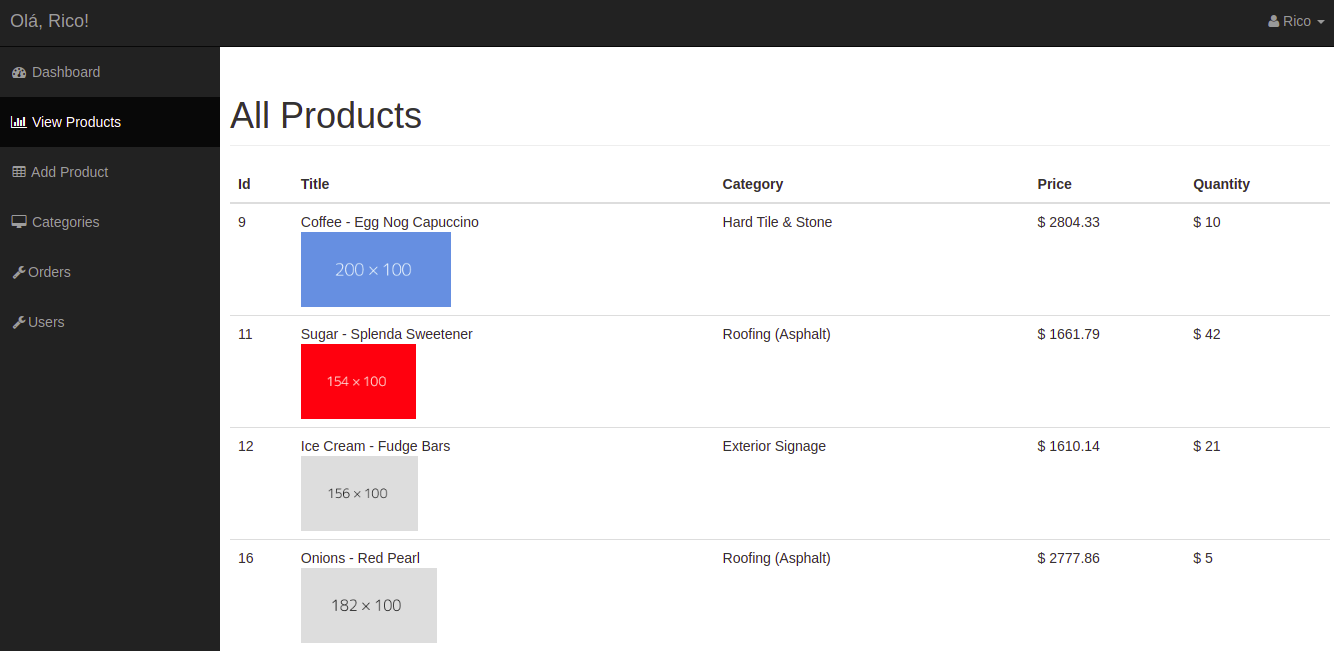
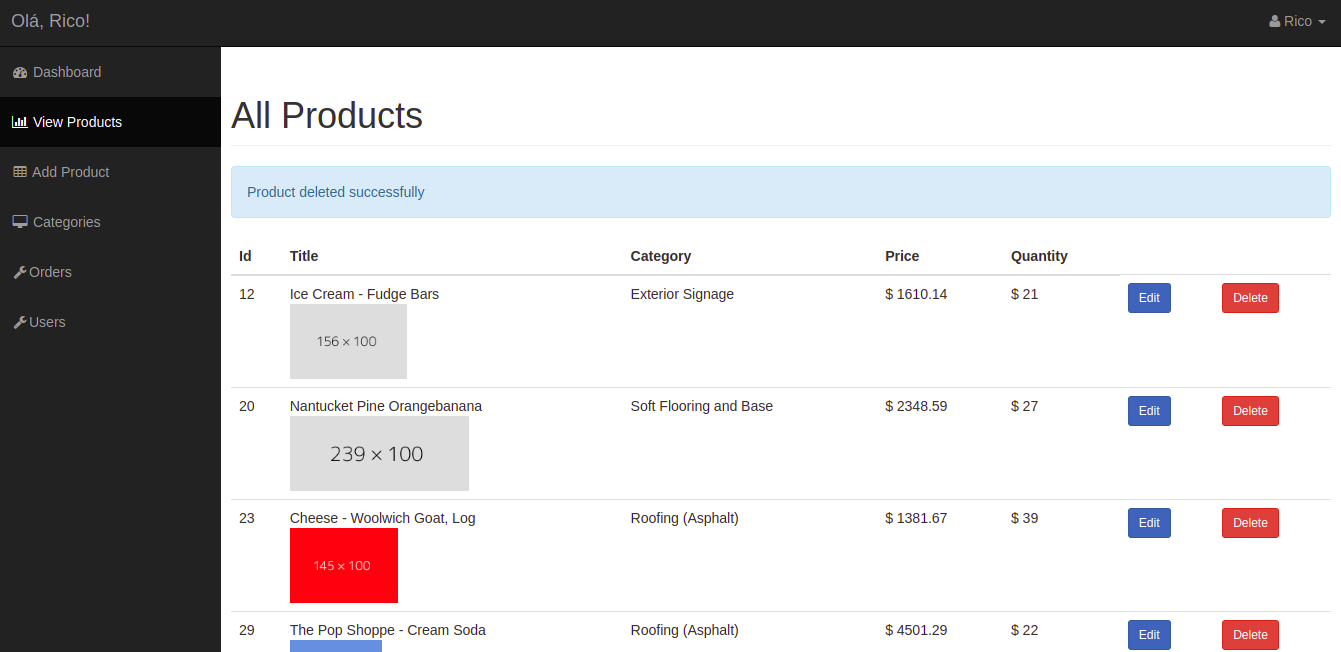
Adding edit product link to admin

diff --git a/admin/edit_product.php b/admin/edit_product.php
@@ -1,239 +1,98 @@
-<!DOCTYPE html>
-<html lang="en">
+<div id="page-wrapper">
 
-<head>
+  <div class="container-fluid">
 
-    <meta charset="utf-8">
-    <meta http-equiv="X-UA-Compatible" content="IE=edge">
-    <meta name="viewport" content="width=device-width, initial-scale=1">
-    <meta name="description" content="">
-    <meta name="author" content="">
+    <div class="col-md-12">
 
-    <title>SB Admin - Bootstrap Admin Template</title>
-
-    <!-- Bootstrap Core CSS -->
-    <link href="css/bootstrap.min.css" rel="stylesheet">
-
-    <!-- Custom CSS -->
-    <link href="css/sb-admin.css" rel="stylesheet">
-
-    <!-- Morris Charts CSS -->
-    <link href="css/plugins/morris.css" rel="stylesheet">
-
-    <!-- Custom Fonts -->
-    <link href="font-awesome/css/font-awesome.min.css" rel="stylesheet" type="text/css">
-
-    <!-- HTML5 Shim and Respond.js IE8 support of HTML5 elements and media queries -->
-    <!-- WARNING: Respond.js doesn't work if you view the page via file:// -->
-    <!--[if lt IE 9]>
-        <script src="https://oss.maxcdn.com/libs/html5shiv/3.7.0/html5shiv.js"></script>
-        <script src="https://oss.maxcdn.com/libs/respond.js/1.4.2/respond.min.js"></script>
-    <![endif]-->
-
-</head>
-
-<body>
-
-    <div id="wrapper">
-
-        <!-- Navigation -->
-        <nav class="navbar navbar-inverse navbar-fixed-top" role="navigation">
-            <!-- Brand and toggle get grouped for better mobile display -->
-            <div class="navbar-header">
-                <button type="button" class="navbar-toggle" data-toggle="collapse" data-target=".navbar-ex1-collapse">
-                    <span class="sr-only">Toggle navigation</span>
-                    <span class="icon-bar"></span>
-                    <span class="icon-bar"></span>
-                    <span class="icon-bar"></span>
-                </button>
-                <a class="navbar-brand" href="index.html">SB Admin</a>
-            </div>
-            <!-- Top Menu Items -->
-            <ul class="nav navbar-right top-nav">
-              <li class="dropdown">
-                    <a href="#" class="dropdown-toggle" data-toggle="dropdown"><i class="fa fa-user"></i> John Smith <b class="caret"></b></a>
-                    <ul class="dropdown-menu">
-                       
-                        <li class="divider"></li>
-                        <li>
-                            <a href="#"><i class="fa fa-fw fa-power-off"></i> Log Out</a>
-                        </li>
-                    </ul>
-                </li>
-            </ul>
-            <!-- Sidebar Menu Items - These collapse to the responsive navigation menu on small screens -->
-            <div class="collapse navbar-collapse navbar-ex1-collapse">
-                <ul class="nav navbar-nav side-nav">
-                    <li class="active">
-                        <a href="index.html"><i class="fa fa-fw fa-dashboard"></i> Dashboard</a>
-                    </li>
-                    <li>
-                        <a href="charts.html"><i class="fa fa-fw fa-bar-chart-o"></i> View Products</a>
-                    </li>
-                    <li>
-                        <a href="tables.html"><i class="fa fa-fw fa-table"></i> Add Product</a>
-                    </li>
-                    
-                    <li>
-                        <a href="bootstrap-elements.html"><i class="fa fa-fw fa-desktop"></i> Categories</a>
-                    </li>
-                    <li>
-                        <a href="bootstrap-grid.html"><i class="fa fa-fw fa-wrench"></i>Orders</a>
-                    </li>
-                
-                </ul>
-            </div>
-            <!-- /.navbar-collapse -->
-        </nav>
-
-
-
-        <div id="page-wrapper">
-
-            <div class="container-fluid">
-
-
-
-
-
-
-<div class="col-md-12">
-
-<div class="row">
-<h1 class="page-header">
-   Add Product
-
-</h1>
-</div>
-               
-
-
-<form action="" method="post" enctype="multipart/form-data">
-
-
-<div class="col-md-8">
-
-<div class="form-group">
-    <label for="product-title">Product Title </label>
-        <input type="text" name="product_title" class="form-control">
-       
-    </div>
-
-
-    <div class="form-group">
-           <label for="product-title">Product Description</label>
-      <textarea name="product_description" id="" cols="30" rows="10" class="form-control"></textarea>
-    </div>
-
-
-
-    <div class="form-group row">
-
-      <div class="col-xs-3">
-        <label for="product-price">Product Price</label>
-        <input type="number" name="product_price" class="form-control" size="60">
+      <div class="row">
+        <h1 class="page-header">Add Product</h1>
       </div>
-    </div>
+
+      <form action="" method="post" enctype="multipart/form-data">
+
+        <div class="col-md-8">
+
+          <div class="form-group">
+            <label for="product-title">Product Title </label>
+            <input type="text" name="product_title" class="form-control">
+          </div>
+
+
+          <div class="form-group">
+            <label for="product-title">Product Description</label>
+            <textarea name="product_description" id="" cols="30" rows="10" class="form-control"></textarea>
+          </div>
 
 
 
-
-    
-    
-
-</div><!--Main Content-->
-
-
-<!-- SIDEBAR-->
-
-
-<aside id="admin_sidebar" class="col-md-4">
-
-     
-     <div class="form-group">
-       <input type="submit" name="draft" class="btn btn-warning btn-lg" value="Draft">
-        <input type="submit" name="publish" class="btn btn-primary btn-lg" value="Publish">
-    </div>
-
-
-     <!-- Product Categories-->
-
-    <div class="form-group">
-         <label for="product-title">Product Category</label>
-          <hr>
-        <select name="product_category" id="" class="form-control">
-            <option value="">Select Category</option>
-           
-        </select>
-
-
-</div>
-
-
-
-
-
-    <!-- Product Brands-->
-
-
-    <div class="form-group">
-      <label for="product-title">Product Brand</label>
-         <select name="product_brand" id="" class="form-control">
-            <option value="">Select Brand</option>
-         </select>
-    </div>
-
-
-<!-- Product Tags -->
-
-
-    <div class="form-group">
-          <label for="product-title">Product Keywords</label>
-          <hr>
-        <input type="text" name="product_tags" class="form-control">
-    </div>
-
-    <!-- Product Image -->
-    <div class="form-group">
-        <label for="product-title">Product Image</label>
-        <input type="file" name="file">
-      
-    </div>
-
-
-
-</aside><!--SIDEBAR-->
-
-
-    
-</form>
-
-
-
-                
-
-
-
+         <div class="form-group row">
+            <div class="col-xs-3">
+              <label for="product-price">Product Price</label>
+              <input type="number" name="product_price" class="form-control" size="60">
             </div>
-            <!-- /.container-fluid -->
+          </div>
+
+
+        </div><!--col-md-8-->
+
+
+        <!-- SIDEBAR-->
+        <aside id="admin_sidebar" class="col-md-4">
+
+
+         <div class="form-group">
+           <input type="submit" name="draft" class="btn btn-warning btn-lg" value="Draft">
+           <input type="submit" name="publish" class="btn btn-primary btn-lg" value="Publish">
+         </div>
+
+
+         <!-- Product Categories-->
+
+         <div class="form-group">
+           <label for="product-title">Product Category</label>
+           <hr>
+           <select name="product_category" id="" class="form-control">
+            <option value="">Select Category</option>
+
+          </select>
+
 
         </div>
-        <!-- /#page-wrapper -->
 
-    </div>
-    <!-- /#wrapper -->
 
-    <!-- jQuery -->
-    <script src="js/jquery.js"></script>
 
-    <!-- Bootstrap Core JavaScript -->
-    <script src="js/bootstrap.min.js"></script>
 
-    <!-- Morris Charts JavaScript -->
-    <script src="js/plugins/morris/raphael.min.js"></script>
-    <script src="js/plugins/morris/morris.min.js"></script>
-    <script src="js/plugins/morris/morris-data.js"></script>
+        <!-- Product Brands-->
+        <div class="form-group">
+          <label for="product-title">Product Brand</label>
+          <select name="product_brand" id="" class="form-control">
+            <option value="">Select Brand</option>
+          </select>
+        </div>
 
-</body>
 
-</html>
+        <!-- Product Tags -->
+        <div class="form-group">
+          <label for="product-title">Product Keywords</label>
+          <hr>
+          <input type="text" name="product_tags" class="form-control">
+        </div>
+
+        <!-- Product Image -->
+        <div class="form-group">
+          <label for="product-title">Product Image</label>
+          <input type="file" name="file">
+        </div>
+
+
+        </aside><!--SIDEBAR-->
+
+
+
+      </form>
+
+    </div> <!-- col-md-12 -->
+
+  </div> <!-- /.container-fluid -->
+
+</div> <!-- /#page-wrapper -->

diff --git a/admin/products.php b/admin/products.php
@@ -53,7 +53,7 @@
             <td>$ <?= $row['price'] ?></td>
             <td>$ <?= $row['quantity'] ?></td>
             <td>
-              <a class="btn btn-sm btn-primary" href="javascript:void(0)">Edit</a>
+              <a class="btn btn-sm btn-primary" href="?page=edit_product">Edit</a>
             </td>
 
             <td>
